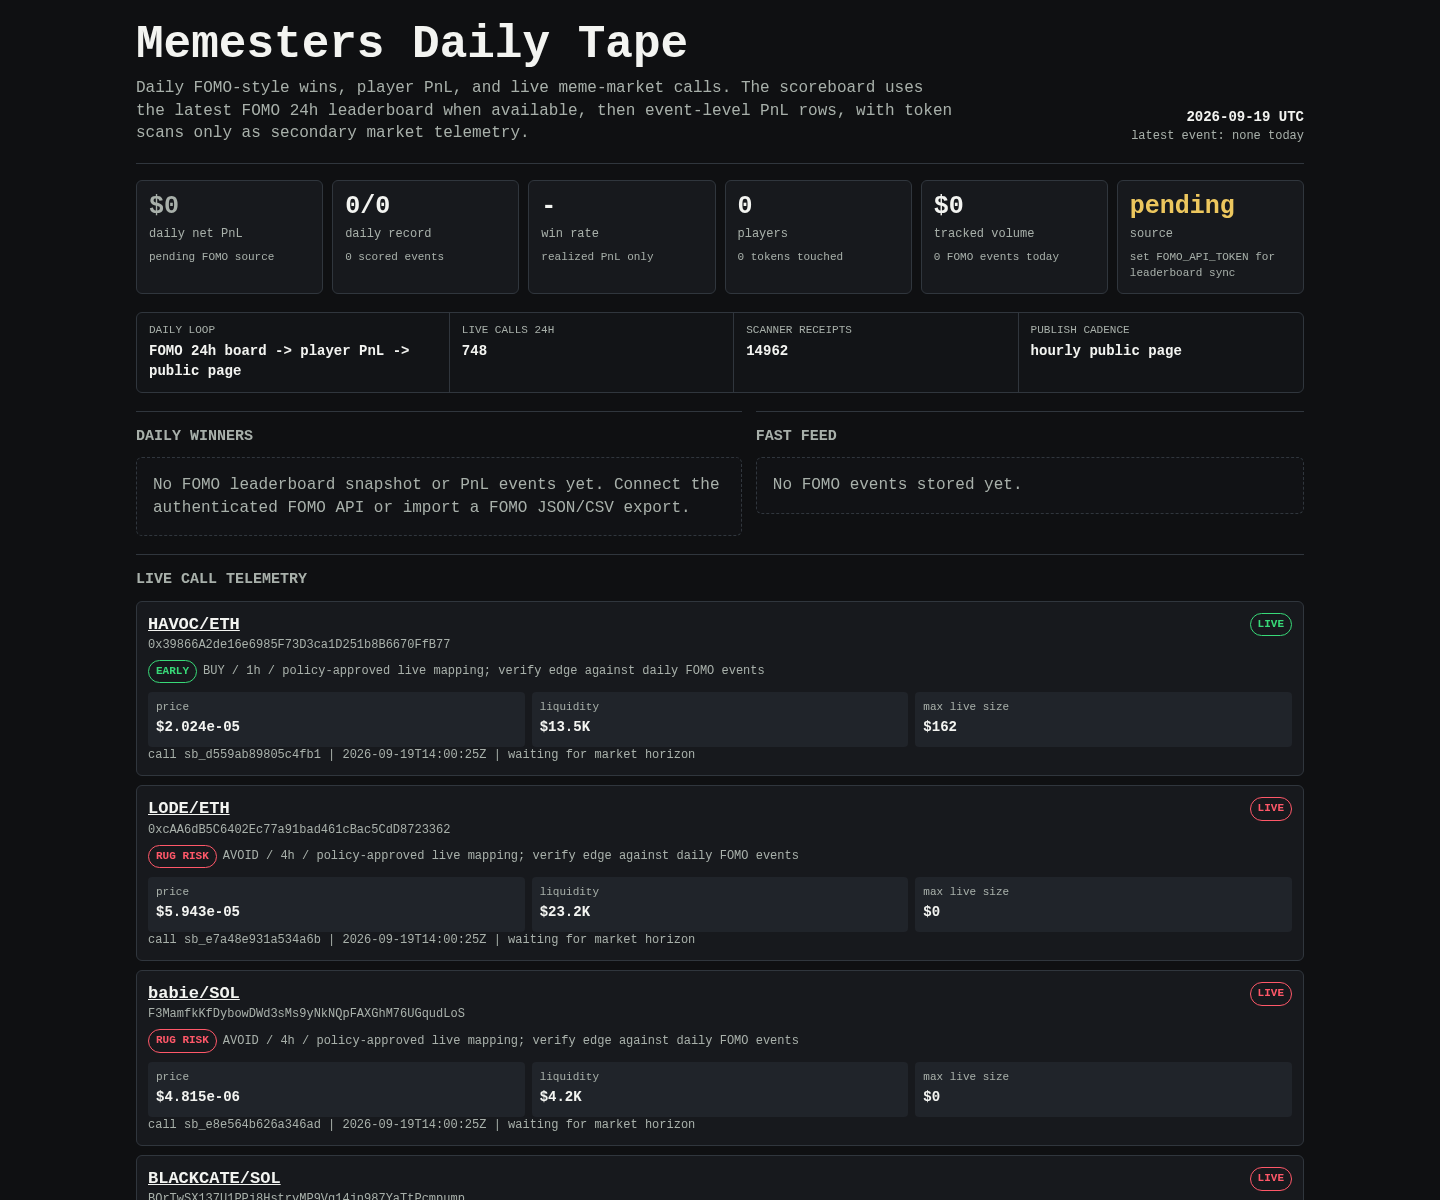
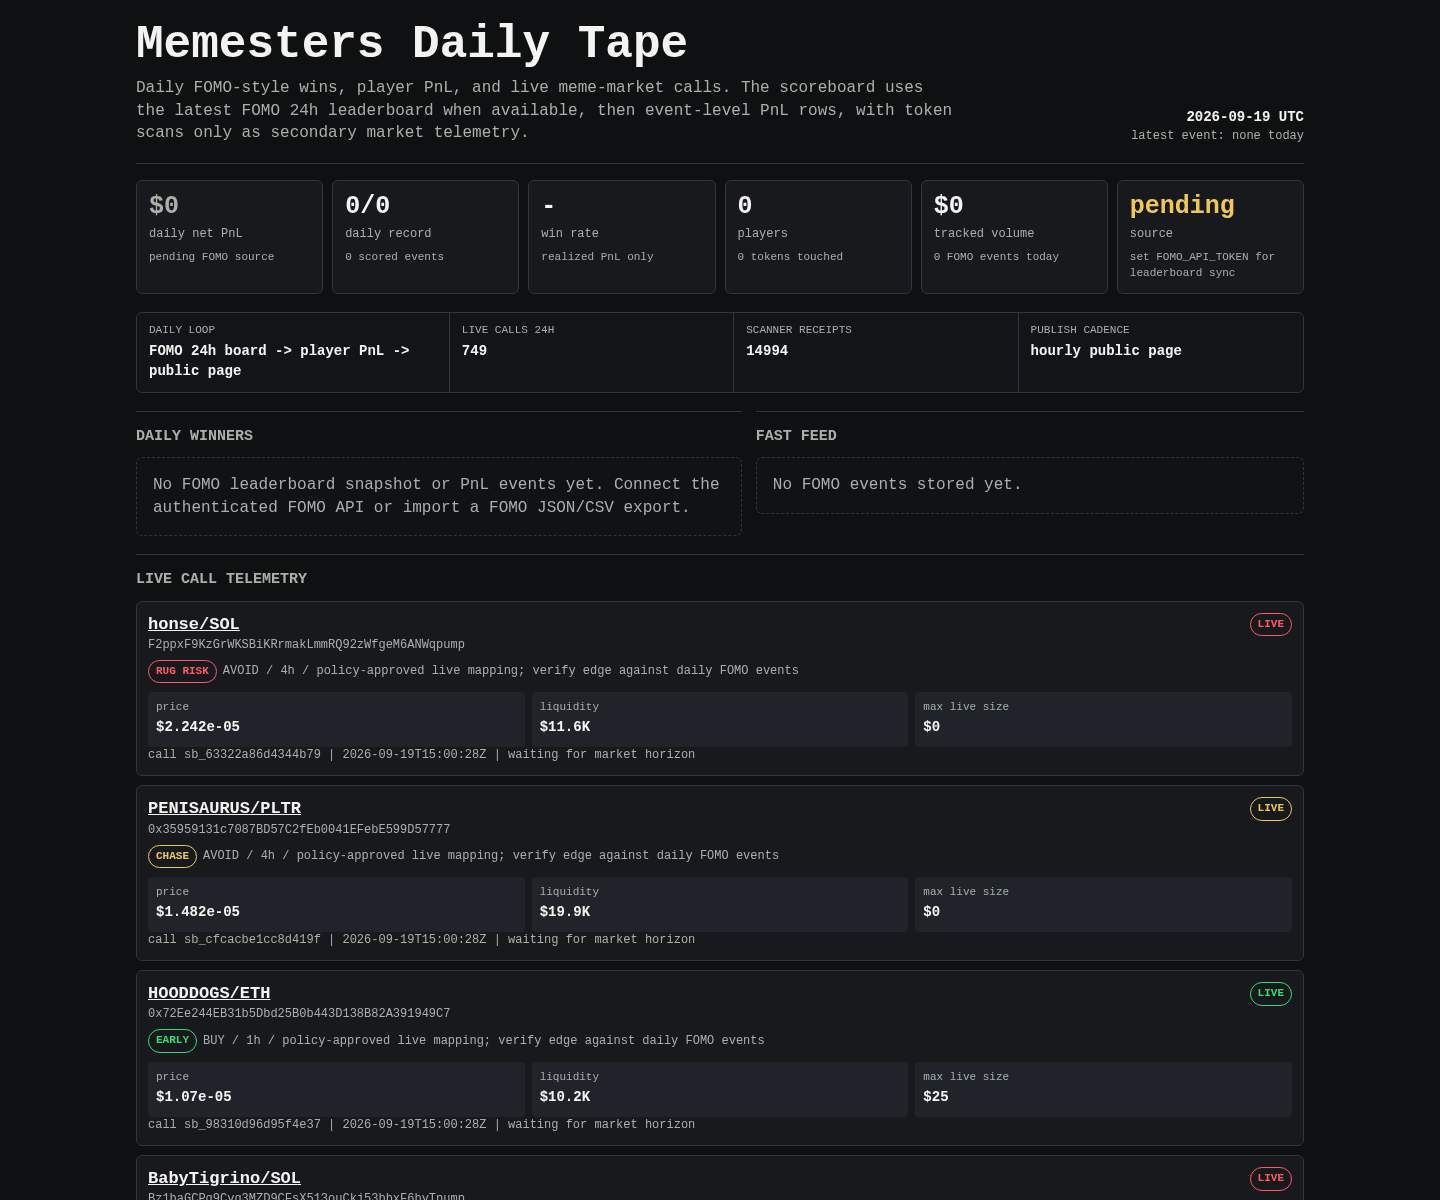
Update Memesters scoreboard

diff --git a/memesters/index.html b/memesters/index.html
@@ -149,8 +149,8 @@
 
     <div class="rail" aria-label="live operating loop">
       <div><span>daily loop</span><b>FOMO 24h board -> player PnL -> public page</b></div>
-      <div><span>live calls 24h</span><b>748</b></div>
-      <div><span>scanner receipts</span><b>14962</b></div>
+      <div><span>live calls 24h</span><b>749</b></div>
+      <div><span>scanner receipts</span><b>14994</b></div>
       <div><span>publish cadence</span><b>hourly public page</b></div>
     </div>
 
@@ -171,29 +171,8 @@
     <article class="receipt">
       <div class="receipt-head">
         <div>
-          <div class="pair"><a href="https://dexscreener.com/robinhood/0x7d8bebb66c6f6e4941c8a7e465f51ead9d8dcdeb0c1274470237e88ecf5adbac">HAVOC/ETH</a></div>
-          <div class="addr">0x39866A2de16e6985F73D3ca1D251b8B6670FfB77</div>
-          <div class="addr policy-line">
-            <span class="badge early">EARLY</span>
-            <span>BUY / 1h / policy-approved live mapping; verify edge against daily FOMO events</span>
-          </div>
-        </div>
-        <span class="badge early">LIVE</span>
-      </div>
-      <div class="receipt-grid">
-        <div class="kv"><span>price</span><b>$2.024e-05</b></div>
-        <div class="kv"><span>liquidity</span><b>$13.5K</b></div>
-        <div class="kv"><span>max live size</span><b>$162</b></div>
-      </div>
-      <div class="outcomes">call sb_d559ab89805c4fb1 | 2026-09-19T14:00:25Z | waiting for market horizon</div>
-    </article>
-    
-
-    <article class="receipt">
-      <div class="receipt-head">
-        <div>
-          <div class="pair"><a href="https://dexscreener.com/robinhood/0x3bd12b43e64b2e0cee7c899c5df4aaa534525810ccb4a0faf6565cdbf7550030">LODE/ETH</a></div>
-          <div class="addr">0xcAA6dB5C6402Ec77a91bad461cBac5CdD8723362</div>
+          <div class="pair"><a href="https://dexscreener.com/solana/hvkrals89qrv16wtbbz96duee4xdg2nk4fqrwd4tgmey">honse/SOL</a></div>
+          <div class="addr">F2ppxF9KzGrWKSBiKRrmakLmmRQ92zWfgeM6ANWqpump</div>
           <div class="addr policy-line">
             <span class="badge rug-risk">RUG RISK</span>
             <span>AVOID / 4h / policy-approved live mapping; verify edge against daily FOMO events</span>
@@ -202,61 +181,19 @@
         <span class="badge rug-risk">LIVE</span>
       </div>
       <div class="receipt-grid">
-        <div class="kv"><span>price</span><b>$5.943e-05</b></div>
-        <div class="kv"><span>liquidity</span><b>$23.2K</b></div>
+        <div class="kv"><span>price</span><b>$2.242e-05</b></div>
+        <div class="kv"><span>liquidity</span><b>$11.6K</b></div>
         <div class="kv"><span>max live size</span><b>$0</b></div>
       </div>
-      <div class="outcomes">call sb_e7a48e931a534a6b | 2026-09-19T14:00:25Z | waiting for market horizon</div>
+      <div class="outcomes">call sb_63322a86d4344b79 | 2026-09-19T15:00:28Z | waiting for market horizon</div>
     </article>
     
 
     <article class="receipt">
       <div class="receipt-head">
         <div>
-          <div class="pair"><a href="https://dexscreener.com/solana/g5wjluufrnoluafxbyjjnlvzp22g5ydjww843vcelqnj">babie/SOL</a></div>
-          <div class="addr">F3MamfkKfDybowDWd3sMs9yNkNQpFAXGhM76UGqudLoS</div>
-          <div class="addr policy-line">
-            <span class="badge rug-risk">RUG RISK</span>
-            <span>AVOID / 4h / policy-approved live mapping; verify edge against daily FOMO events</span>
-          </div>
-        </div>
-        <span class="badge rug-risk">LIVE</span>
-      </div>
-      <div class="receipt-grid">
-        <div class="kv"><span>price</span><b>$4.815e-06</b></div>
-        <div class="kv"><span>liquidity</span><b>$4.2K</b></div>
-        <div class="kv"><span>max live size</span><b>$0</b></div>
-      </div>
-      <div class="outcomes">call sb_e8e564b626a346ad | 2026-09-19T14:00:25Z | waiting for market horizon</div>
-    </article>
-    
-
-    <article class="receipt">
-      <div class="receipt-head">
-        <div>
-          <div class="pair"><a href="https://dexscreener.com/solana/6ghex6mql9nmrkmxngncw852tjbzxemfzvpkz4gv1gqr">BLACKCATE/SOL</a></div>
-          <div class="addr">BQrTwSX137U1PPj8HstryMP9Vg14jn987YaTtPcmpump</div>
-          <div class="addr policy-line">
-            <span class="badge rug-risk">RUG RISK</span>
-            <span>AVOID / 4h / policy-approved live mapping; verify edge against daily FOMO events</span>
-          </div>
-        </div>
-        <span class="badge rug-risk">LIVE</span>
-      </div>
-      <div class="receipt-grid">
-        <div class="kv"><span>price</span><b>$3.19e-05</b></div>
-        <div class="kv"><span>liquidity</span><b>$13.9K</b></div>
-        <div class="kv"><span>max live size</span><b>$0</b></div>
-      </div>
-      <div class="outcomes">call sb_bf79fc80b07d4fcd | 2026-09-19T14:00:25Z | waiting for market horizon</div>
-    </article>
-    
-
-    <article class="receipt">
-      <div class="receipt-head">
-        <div>
-          <div class="pair"><a href="https://dexscreener.com/bsc/0xa2464ecb29c9bf7f45b702754f863f928bb1332a">果蝇/USDT</a></div>
-          <div class="addr">0xF0520b8aA43D8C4B47A5011D5b84a87AE4637777</div>
+          <div class="pair"><a href="https://dexscreener.com/robinhood/0xf53a5886f648023baadb52a7e153e67c9e652bf8">PENISAURUS/PLTR</a></div>
+          <div class="addr">0x35959131c7087BD57C2fEb0041EFebE599D57777</div>
           <div class="addr policy-line">
             <span class="badge chase">CHASE</span>
             <span>AVOID / 4h / policy-approved live mapping; verify edge against daily FOMO events</span>
@@ -265,19 +202,19 @@
         <span class="badge chase">LIVE</span>
       </div>
       <div class="receipt-grid">
-        <div class="kv"><span>price</span><b>$3.015e-05</b></div>
-        <div class="kv"><span>liquidity</span><b>$35.4K</b></div>
+        <div class="kv"><span>price</span><b>$1.482e-05</b></div>
+        <div class="kv"><span>liquidity</span><b>$19.9K</b></div>
         <div class="kv"><span>max live size</span><b>$0</b></div>
       </div>
-      <div class="outcomes">call sb_00338f35ce304a34 | 2026-09-19T14:00:24Z | waiting for market horizon</div>
+      <div class="outcomes">call sb_cfcacbe1cc8d419f | 2026-09-19T15:00:28Z | waiting for market horizon</div>
     </article>
     
 
     <article class="receipt">
       <div class="receipt-head">
         <div>
-          <div class="pair"><a href="https://dexscreener.com/robinhood/0xaa1c9917031f597d6a15633304b27b3ef484d9cd6d81c8fa1f1c460779f3a261">WRITE/ETH</a></div>
-          <div class="addr">0x9505b0C52d3292C6BEA1CD432be57814bDC03B65</div>
+          <div class="pair"><a href="https://dexscreener.com/robinhood/0xdf707c3fccaf93e0c8a21c552651d8292d90b0af84260751d4046425fdd5a2fb">HOODDOGS/ETH</a></div>
+          <div class="addr">0x72Ee244EB31b5Dbd25B0b443D138B82A391949C7</div>
           <div class="addr policy-line">
             <span class="badge early">EARLY</span>
             <span>BUY / 1h / policy-approved live mapping; verify edge against daily FOMO events</span>
@@ -286,82 +223,103 @@
         <span class="badge early">LIVE</span>
       </div>
       <div class="receipt-grid">
-        <div class="kv"><span>price</span><b>$4.355e-05</b></div>
-        <div class="kv"><span>liquidity</span><b>$19.8K</b></div>
-        <div class="kv"><span>max live size</span><b>$207</b></div>
-      </div>
-      <div class="outcomes">call sb_21b8dc66a3544fa7 | 2026-09-19T14:00:24Z | waiting for market horizon</div>
-    </article>
-    
-
-    <article class="receipt">
-      <div class="receipt-head">
-        <div>
-          <div class="pair"><a href="https://dexscreener.com/solana/5atfaxxcxzokeuybhtivg7z6xdwbvnhtfyendnix11ca">HABIBINU/USO</a></div>
-          <div class="addr">7GuTYEM2bF7fWF7zKfJ8UWMrs7i6xeoDMFJYnGXDH9ke</div>
-          <div class="addr policy-line">
-            <span class="badge chase">CHASE</span>
-            <span>AVOID / 4h / policy-approved live mapping; verify edge against daily FOMO events</span>
-          </div>
-        </div>
-        <span class="badge chase">LIVE</span>
-      </div>
-      <div class="receipt-grid">
-        <div class="kv"><span>price</span><b>$7.53e-05</b></div>
-        <div class="kv"><span>liquidity</span><b>$24.6K</b></div>
-        <div class="kv"><span>max live size</span><b>$0</b></div>
-      </div>
-      <div class="outcomes">call sb_2441401da7c34ec7 | 2026-09-19T14:00:24Z | waiting for market horizon</div>
-    </article>
-    
-
-    <article class="receipt">
-      <div class="receipt-head">
-        <div>
-          <div class="pair"><a href="https://dexscreener.com/robinhood/0xdad4cae9ef91b186dc9c9b8b2b157b63bb6278b238b34d6563a50c70647428c2">IMIN/WETH</a></div>
-          <div class="addr">0x8239eF71E672BA63fac1228B05E66Ca2c060ca74</div>
-          <div class="addr policy-line">
-            <span class="badge chase">CHASE</span>
-            <span>AVOID / 4h / policy-approved live mapping; verify edge against daily FOMO events</span>
-          </div>
-        </div>
-        <span class="badge chase">LIVE</span>
-      </div>
-      <div class="receipt-grid">
-        <div class="kv"><span>price</span><b>$5.384e-06</b></div>
-        <div class="kv"><span>liquidity</span><b>$238.0K</b></div>
-        <div class="kv"><span>max live size</span><b>$0</b></div>
-      </div>
-      <div class="outcomes">call sb_93fa0ae4ad7d43bf | 2026-09-19T13:45:22Z | waiting for market horizon</div>
-    </article>
-    
-
-    <article class="receipt">
-      <div class="receipt-head">
-        <div>
-          <div class="pair"><a href="https://dexscreener.com/solana/bj7ebi8s1hknwjv1qfyrsx1xaz913l6jmg1yqldzvr2w">HALAL/SOL</a></div>
-          <div class="addr">CxPvmGq8trFkwybKAAf7v7sbnNQirj1Rnv15FsQWpump</div>
-          <div class="addr policy-line">
-            <span class="badge early">EARLY</span>
-            <span>BUY / 1h / policy-approved live mapping; verify edge against daily FOMO events</span>
-          </div>
-        </div>
-        <span class="badge early">LIVE</span>
-      </div>
-      <div class="receipt-grid">
-        <div class="kv"><span>price</span><b>$8.41e-06</b></div>
-        <div class="kv"><span>liquidity</span><b>$6.2K</b></div>
+        <div class="kv"><span>price</span><b>$1.07e-05</b></div>
+        <div class="kv"><span>liquidity</span><b>$10.2K</b></div>
         <div class="kv"><span>max live size</span><b>$25</b></div>
       </div>
-      <div class="outcomes">call sb_f6aab7aa452e4f98 | 2026-09-19T13:45:22Z | waiting for market horizon</div>
+      <div class="outcomes">call sb_98310d96d95f4e37 | 2026-09-19T15:00:28Z | waiting for market horizon</div>
     </article>
     
 
     <article class="receipt">
       <div class="receipt-head">
         <div>
-          <div class="pair"><a href="https://dexscreener.com/solana/fdjgybfvprafyg9bxfnuyie7ejxh87hp8rbrqh3kbkgg">LAUNCH/SOL</a></div>
-          <div class="addr">8EpfsKaUp6iRyJZLZbDo5Y2Mma5UxJDCpf9qWq2kpump</div>
+          <div class="pair"><a href="https://dexscreener.com/solana/g1btdpy2teifbgxjlhenwy8rgtjphmuendjzfzggndsi">BabyTigrino/SOL</a></div>
+          <div class="addr">Bz1baGCPq9Cyq3MZD9CFsX513ouCkj53bbxF6byTpump</div>
+          <div class="addr policy-line">
+            <span class="badge rug-risk">RUG RISK</span>
+            <span>AVOID / 4h / policy-approved live mapping; verify edge against daily FOMO events</span>
+          </div>
+        </div>
+        <span class="badge rug-risk">LIVE</span>
+      </div>
+      <div class="receipt-grid">
+        <div class="kv"><span>price</span><b>$2.574e-06</b></div>
+        <div class="kv"><span>liquidity</span><b>$2.6K</b></div>
+        <div class="kv"><span>max live size</span><b>$0</b></div>
+      </div>
+      <div class="outcomes">call sb_bc947c75d85b4e25 | 2026-09-19T15:00:28Z | waiting for market horizon</div>
+    </article>
+    
+
+    <article class="receipt">
+      <div class="receipt-head">
+        <div>
+          <div class="pair"><a href="https://dexscreener.com/bsc/0x98aa241e7a9f0e7176aa2b0c3f6816fa854c1091">DIAX/WBNB</a></div>
+          <div class="addr">0xd9a093f9ac6B2Ab0E2e15Eaf83dE3f5682A97777</div>
+          <div class="addr policy-line">
+            <span class="badge rug-risk">RUG RISK</span>
+            <span>AVOID / 4h / policy-approved live mapping; verify edge against daily FOMO events</span>
+          </div>
+        </div>
+        <span class="badge rug-risk">LIVE</span>
+      </div>
+      <div class="receipt-grid">
+        <div class="kv"><span>price</span><b>$2.133e-05</b></div>
+        <div class="kv"><span>liquidity</span><b>$14.8K</b></div>
+        <div class="kv"><span>max live size</span><b>$0</b></div>
+      </div>
+      <div class="outcomes">call sb_68f456b956fc42e0 | 2026-09-19T15:00:28Z | waiting for market horizon</div>
+    </article>
+    
+
+    <article class="receipt">
+      <div class="receipt-head">
+        <div>
+          <div class="pair"><a href="https://dexscreener.com/robinhood/0xaff9b5ec59c1490f5df2aa234c5ea0bb62ade72a0332962ff7ec04024751df51">NEWSLY/ETH</a></div>
+          <div class="addr">0xeC302678955599248Fd269126191586dd58297C6</div>
+          <div class="addr policy-line">
+            <span class="badge early">EARLY</span>
+            <span>BUY / 1h / policy-approved live mapping; verify edge against daily FOMO events</span>
+          </div>
+        </div>
+        <span class="badge early">LIVE</span>
+      </div>
+      <div class="receipt-grid">
+        <div class="kv"><span>price</span><b>$5.28e-05</b></div>
+        <div class="kv"><span>liquidity</span><b>$21.9K</b></div>
+        <div class="kv"><span>max live size</span><b>$39</b></div>
+      </div>
+      <div class="outcomes">call sb_fa4959d04ad04de2 | 2026-09-19T15:00:28Z | waiting for market horizon</div>
+    </article>
+    
+
+    <article class="receipt">
+      <div class="receipt-head">
+        <div>
+          <div class="pair"><a href="https://dexscreener.com/robinhood/0xcd8042b77d2e86a2204b5fb842fb885a5277ad8756de2a4db97a3d0e73963b84">GHOST/ETH</a></div>
+          <div class="addr">0x1B617f3CEE8EB9cabe03A32b1F0a1797302DbFDE</div>
+          <div class="addr policy-line">
+            <span class="badge early">EARLY</span>
+            <span>BUY / 1h / policy-approved live mapping; verify edge against daily FOMO events</span>
+          </div>
+        </div>
+        <span class="badge early">LIVE</span>
+      </div>
+      <div class="receipt-grid">
+        <div class="kv"><span>price</span><b>$8.261e-05</b></div>
+        <div class="kv"><span>liquidity</span><b>$27.3K</b></div>
+        <div class="kv"><span>max live size</span><b>$151</b></div>
+      </div>
+      <div class="outcomes">call sb_f62720061f434d9f | 2026-09-19T15:00:28Z | waiting for market horizon</div>
+    </article>
+    
+
+    <article class="receipt">
+      <div class="receipt-head">
+        <div>
+          <div class="pair"><a href="https://dexscreener.com/hyperevm/0x1bd1301545c0d539b88952a5b933eb1edb8565aa">HYPIO/WHYPE</a></div>
+          <div class="addr">0xB0C7F5A467E3965d76D8EEd4b2589Ab2f3E19116</div>
           <div class="addr policy-line">
             <span class="badge chase">CHASE</span>
             <span>AVOID / 4h / policy-approved live mapping; verify edge against daily FOMO events</span>
@@ -370,11 +328,53 @@
         <span class="badge chase">LIVE</span>
       </div>
       <div class="receipt-grid">
-        <div class="kv"><span>price</span><b>$0.0001422</b></div>
-        <div class="kv"><span>liquidity</span><b>$31.9K</b></div>
+        <div class="kv"><span>price</span><b>$2.634e-05</b></div>
+        <div class="kv"><span>liquidity</span><b>$11.4K</b></div>
         <div class="kv"><span>max live size</span><b>$0</b></div>
       </div>
-      <div class="outcomes">call sb_d675947fe05d4a6f | 2026-09-19T13:45:22Z | waiting for market horizon</div>
+      <div class="outcomes">call sb_436625ff00284bab | 2026-09-19T15:00:28Z | waiting for market horizon</div>
+    </article>
+    
+
+    <article class="receipt">
+      <div class="receipt-head">
+        <div>
+          <div class="pair"><a href="https://dexscreener.com/solana/hucw8klryoma5gmzvaxf2b1jxdebhxnvkllgradjjhbj">INURANUS/SPCXx</a></div>
+          <div class="addr">FKWAyaxNccZCgT142vdMT6658geBEJb7cdNNkMb86Kwo</div>
+          <div class="addr policy-line">
+            <span class="badge chase">CHASE</span>
+            <span>AVOID / 4h / policy-approved live mapping; verify edge against daily FOMO events</span>
+          </div>
+        </div>
+        <span class="badge chase">LIVE</span>
+      </div>
+      <div class="receipt-grid">
+        <div class="kv"><span>price</span><b>$0.0003957</b></div>
+        <div class="kv"><span>liquidity</span><b>$59.9K</b></div>
+        <div class="kv"><span>max live size</span><b>$0</b></div>
+      </div>
+      <div class="outcomes">call sb_009652e1d8c24590 | 2026-09-19T14:45:22Z | waiting for market horizon</div>
+    </article>
+    
+
+    <article class="receipt">
+      <div class="receipt-head">
+        <div>
+          <div class="pair"><a href="https://dexscreener.com/solana/bkknmza8sucsrla5twxbkzb8x3agwmn9egeynelfeac9">牛市/SOL</a></div>
+          <div class="addr">Bfcs7bKFD7Yk55hWDSNi3iHdDzTz5572hV9NQvjRpump</div>
+          <div class="addr policy-line">
+            <span class="badge chase">CHASE</span>
+            <span>AVOID / 4h / policy-approved live mapping; verify edge against daily FOMO events</span>
+          </div>
+        </div>
+        <span class="badge chase">LIVE</span>
+      </div>
+      <div class="receipt-grid">
+        <div class="kv"><span>price</span><b>$8.461e-05</b></div>
+        <div class="kv"><span>liquidity</span><b>$24.1K</b></div>
+        <div class="kv"><span>max live size</span><b>$0</b></div>
+      </div>
+      <div class="outcomes">call sb_45f030544f6d4107 | 2026-09-19T14:45:22Z | waiting for market horizon</div>
     </article>
     
     </section>
